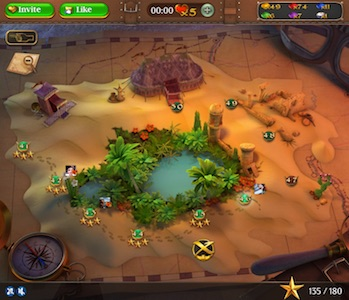
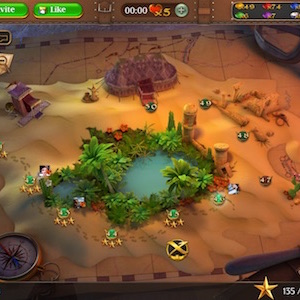
More gallery entries & tweaks.

diff --git a/_layouts/gallery.html b/_layouts/gallery.html
@@ -8,19 +8,16 @@
 table, td {
   border: none;
 }
+
 #appstores {
   float: right;
 }
 #appstores img {
   display: inline;
 }
+
 .screenshot img {
   border: 3px solid rgba(213, 249, 145, .2);
-  display: inline;
-}
-.thumb img {
-  border: 1px solid rgba(213, 249, 145, .2);
-  height: 150px;
   display: inline;
 }
 </style>

diff --git a/css/solo.css b/css/solo.css
@@ -155,7 +155,7 @@ pre > code {
 }
 
 .container {
-  max-width: 40rem;
+  max-width: 45rem;
   margin: 0 auto;
   padding: 0 1rem;
 }

diff --git a/gallery/index.md b/gallery/index.md
@@ -2,27 +2,166 @@
 layout: gallery
 ---
 
+<style>
+ul.thumbs {
+  list-style-type: none;
+  margin: 0;
+  padding: 0;
+  text-align: center;
+}
+
+ul.thumbs li {
+  display: inline-block;
+  height: 150px;
+  margin: 0;
+  position: relative;
+}
+
+ul.thumbs li:hover span.thumb-text {
+  opacity: 1;
+}
+
+ul.thumbs img {
+  height: 150px;
+}
+
+span.thumb-text {
+  background: rgba(0,0,0,0.5);
+  color: white;
+  opacity: 0;
+  font-size: x-large;
+  cursor: pointer;
+  display: table;
+  left: 0;
+  top: 0;
+  position: absolute;
+  width: 100%;
+  height: 150px;
+  -webkit-transition: opacity 300ms;
+  -moz-transition: opacity 300ms;
+  -o-transition: opacity 300ms;
+  transition: opacity 300ms;
+}
+
+span.thumb-text span {
+  display: table-cell;
+  text-align: center;
+  vertical-align: middle;
+}
+</style>
+
 # Gallery
 
-Here are a bunch of fine games made using PlayN, some commerical and some by hobbyists. Click the
-images below for more details on each game.
+Here are many fine games made using PlayN. Click any image for more details.
 
-<span class="thumb"><a href="spellwood"><img src="spellwood/thumb.jpg"></a></span>
-<span class="thumb"><a href="frogger"><img src="frogger/thumb.jpg"></a></span>
-<span class="thumb"><a href="coreminer"><img src="coreminer/thumb.jpg"></a></span>
-<span class="thumb"><a href="thelidia-asteroids"><img src="thelidia-asteroids/thumb.jpg"></a></span>
-<span class="thumb"><a href="pyramid-solitaire"><img src="pyramid-solitaire/thumb.jpg"></a></span>
-<span class="thumb"><a href="darkattack"><img src="darkattack/thumb.jpg"></a></span>
-<span class="thumb"><a href="unscramble"><img src="unscramble/thumb.jpg"></a></span>
-<span class="thumb"><a href="bobbyjumps"><img src="bobbyjumps/thumb.jpg"></a></span>
-<span class="thumb"><a href="tupsu"><img src="tupsu/thumb.jpg"></a></span>
-<span class="thumb"><a href="huizbrett"><img src="huizbrett/thumb.jpg"></a></span>
-<span class="thumb"><a href="gravityrun"><img src="gravityrun/thumb.jpg"></a></span>
-<span class="thumb"><a href="ufoinvasion"><img src="ufoinvasion/thumb.jpg"></a></span>
-<span class="thumb"><a href="magiccards"><img src="magiccards/thumb.jpg"></a></span>
+<ul class="thumbs">
+  <li><a href="spellwood">
+    <img src="spellwood/thumb.jpg">
+    <span class="thumb-text"><span>Spellwood</span></span>
+  </a></li>
+
+  <li><a href="pyramid-solitaire">
+    <img src="pyramid-solitaire/thumb.jpg">
+    <span class="thumb-text"><span>Pyramid Solitaire</span></span>
+  </a></li>
+
+  <li><a href="tupsu">
+    <img src="tupsu/thumb.jpg">
+    <span class="thumb-text"><span>Tupsu</span></span>
+  </a></li>
+
+  <li><a href="darkattack">
+    <img src="darkattack/thumb.jpg">
+    <span class="thumb-text"><span>DarkAttack</span></span>
+  </a></li>
+
+  <li><a href="frogger">
+    <img src="frogger/thumb.jpg">
+    <span class="thumb-text"><span>Frogger</span></span>
+  </a></li>
+
+  <li><a href="coreminer">
+    <img src="coreminer/thumb.jpg">
+    <span class="thumb-text"><span>Core Miner</span></span>
+  </a></li>
+
+  <li><a href="thelidia-asteroids">
+    <img src="thelidia-asteroids/thumb.jpg">
+    <span class="thumb-text"><span>Thelidia Asteroid Attack</span></span>
+  </a></li>
+
+  <li><a href="unscramble">
+    <img src="unscramble/thumb.jpg">
+    <span class="thumb-text"><span>Unscramble This</span></span>
+  </a></li>
+
+  <li><a href="bobbyjumps">
+    <img src="bobbyjumps/thumb.jpg">
+    <span class="thumb-text"><span>Bobby Jumps</span></span>
+  </a></li>
+
+  <li><a href="huizbrett">
+    <img src="huizbrett/thumb.jpg">
+    <span class="thumb-text"><span>Huizbrett</span></span>
+  </a></li>
+
+  <li><a href="gravityrun">
+    <img src="gravityrun/thumb.jpg">
+    <span class="thumb-text"><span>Gravity Run</span></span>
+  </a></li>
+
+  <li><a href="ufoinvasion">
+    <img src="ufoinvasion/thumb.jpg">
+    <span class="thumb-text"><span>UFO Invasion</span></span>
+  </a></li>
+
+  <li><a href="magiccards">
+    <img src="magiccards/thumb.jpg">
+    <span class="thumb-text"><span>Magic Cards</span></span>
+  </a></li>
+
+  <li><a href="sheepshooter">
+    <img src="sheepshooter/thumb.jpg">
+    <span class="thumb-text"><span>Sheep Shooter</span></span>
+  </a></li>
+
+  <li><a href="pengvparr">
+    <img src="pengvparr/thumb.jpg">
+    <span class="thumb-text"><span>Penguins vs. Parrots</span></span>
+  </a></li>
+
+  <li><a href="dirtyworms">
+    <img src="dirtyworms/thumb.jpg">
+    <span class="thumb-text"><span>Dirty Worms</span></span>
+  </a></li>
+
+  <li><a href="battleshipfriends">
+    <img src="battleshipfriends/thumb.jpg">
+    <span class="thumb-text"><span>Battleship Friends</span></span>
+  </a></li>
+
+  <li><a href="divisioncell">
+    <img src="divisioncell/thumb.jpg">
+    <span class="thumb-text"><span>Division Cell</span></span>
+  </a></li>
+
+  <li><a href="parismetro">
+    <img src="parismetro/thumb.jpg">
+    <span class="thumb-text"><span>Paris Métro Simulator</span></span>
+  </a></li>
+
+  <li><a href="app2solitaire">
+    <img src="app2solitaire/thumb.jpg">
+    <span class="thumb-text"><span>app²solitaire</span></span>
+  </a></li>
+
+  <li><a href="brainteaser">
+    <img src="brainteaser/thumb.jpg">
+    <span class="thumb-text"><span>Brain Teaser</span></span>
+  </a></li>
+</ul>
 
 If you want to add your game to the gallery, fork the [PlayN website repository], add a directory
-for your game to the `/gallery/` section (along with a link on the index page) and submit a pull
-request.
+for your game in the `gallery` directory, a link on the index page, and submit a pull request.
 
 [PlayN website repository]: https://github.com/playn/playn.github.io

diff --git a/gallery/dirtyworms/index.md b/gallery/dirtyworms/index.md
@@ -1,0 +1,20 @@
+---
+layout: gallery
+---
+
+# Dirty Worms
+
+<div id="appstores">
+<a href="https://chrome.google.com/webstore/detail/dirty-worms/kjhhhkojaeedacfpccigiadfoigklfgo?hl=en&gl=CA"><img src="../chromestore.png" height="40"></a>
+<a href="https://www.facebook.com/games/dirtyworms/"><img src="../facebook.png" height="40"></a>
+</div>
+
+by [Tim O'Brien](https://plus.google.com/+TimOBrien0)  
+[dirtyworms.net](http://www.dirtyworms.net/)
+
+<center>
+<span class="screenshot"><img src="screenshot.jpg"/></span>
+</center>
+
+In a world where the early bird gets the worm, a band or worms rise up to fight back. Join Bonez,
+Gunner, Blade, Ninja and Hard as they fight to save their world.

diff --git a/gallery/divisioncell/index.md b/gallery/divisioncell/index.md
@@ -1,0 +1,20 @@
+---
+layout: gallery
+---
+
+# Division Cell
+
+<div id="appstores">
+<a href="https://play.google.com/store/apps/details?id=com.hyperspaceyard.cell"><img src="../googleplay.png" height="40"></a>
+<a href="https://itunes.apple.com/app/id673531723"><img src="../appstore.svg" height="40"></a>
+</div>
+
+by [Hyperspace Yard](http://www.indiedb.com/company/hyperspace-yard)  
+<strike>cell.hyperspaceyard.com</strike>
+
+<center>
+<span class="screenshot"><img src="screenshot.jpg" width="320"/></span>
+</center>
+
+In Division Cell, your task is to restore harmony and symmetry to an array of disorganized shapes.
+Take a trip with us to Flatland!

diff --git a/gallery/parismetro/index.md b/gallery/parismetro/index.md
@@ -1,0 +1,20 @@
+---
+layout: gallery
+---
+
+# Paris Métro Simulator
+
+<div id="appstores">
+<a href="https://play.google.com/store/apps/details?id=metro.android"><img src="../googleplay.png" height="40"></a>
+<a href="https://itunes.apple.com/app/id827208064"><img src="../appstore.svg" height="40"></a>
+</div>
+
+by Ludotouch  
+[parismetrosimulator.appspot.com](http://parismetrosimulator.appspot.com/)
+
+<center>
+<span class="screenshot"><img src="screenshot.jpg"/></span>
+</center>
+
+Paris Métro Simulator is a subway simulator. You must respect the red lights, the speed limit and
+stop at the end of each station.

diff --git a/gallery/app2solitaire/index.md b/gallery/app2solitaire/index.md
@@ -1,0 +1,19 @@
+---
+layout: gallery
+---
+
+# app²solitaire
+
+<div id="appstores">
+<a href="https://play.google.com/store/apps/details?id=com.app2square.solitaire"><img src="../googleplay.png" height="40"></a>
+<a href="https://itunes.apple.com/app/id633449808"><img src="../appstore.svg" height="40"></a>
+</div>
+
+by [app²square](http://www.app2square.com/)  
+[facebook.com/app2square](http://www.facebook.com/app2square)
+
+<center>
+<span class="screenshot"><img src="screenshot0.jpg" width="320"/></span>
+&nbsp;&nbsp;
+<span class="screenshot"><img src="screenshot1.jpg" width="320"/></span>
+</center>

diff --git a/gallery/sheepshooter/index.md b/gallery/sheepshooter/index.md
@@ -1,0 +1,18 @@
+---
+layout: gallery
+---
+
+# Sheep Shooter
+
+<div id="appstores">
+<a href="https://play.google.com/store/apps/details?id=com.idrosh.games.troncho.android.free"><img src="../googleplay.png" height="40"></a>
+</div>
+
+by idrosh games
+
+<center>
+<span class="screenshot"><img src="screenshot.jpg"/></span>
+</center>
+
+Help Angry TRONCHO to defend his home planet from the sheep invasion. Use a variety of cool weapons
+in over 60 levels, hours of free fun.

diff --git a/gallery/battleshipfriends/index.md b/gallery/battleshipfriends/index.md
@@ -1,0 +1,17 @@
+---
+layout: gallery
+---
+
+# Battleship Friends
+
+<div id="appstores">
+<a href="https://play.google.com/store/apps/details?id=com.nuggeta.game.battleship.android"><img src="../googleplay.png" height="40"></a>
+</div>
+
+by [Nuggeta](http://www.nuggeta.com/)
+
+<center>
+<span class="screenshot"><img src="screenshot.jpg"/></span>
+</center>
+
+An addictive Facebook war sea board PvP (Player versus Player) multiplayer online game.

diff --git a/gallery/pengvparr/index.md b/gallery/pengvparr/index.md
@@ -1,0 +1,15 @@
+---
+layout: gallery
+---
+
+# Penguins vs. Parrots
+
+by ooki.com  
+[facebook.com/penguinsvsparrots](https://www.facebook.com/penguinsvsparrots)
+
+<center>
+<span class="screenshot"><img src="screenshot.jpg"/></span>
+</center>
+
+Irresistible feathery fun featuring a mix of match 3 gameplay with checkers and chess-style
+strategy.

diff --git a/gallery/brainteaser/index.md b/gallery/brainteaser/index.md
@@ -1,0 +1,14 @@
+---
+layout: gallery
+---
+
+# Brain Teaser
+
+by Unknown  
+[arcade-game.appspot.com/matcher](http://arcade-game.appspot.com/matcher/index.html)
+
+<center>
+<span class="screenshot"><img src="screenshot.jpg"/></span>
+</center>
+
+Turn over the tiles one at a time to reveal the animal and try to match them
